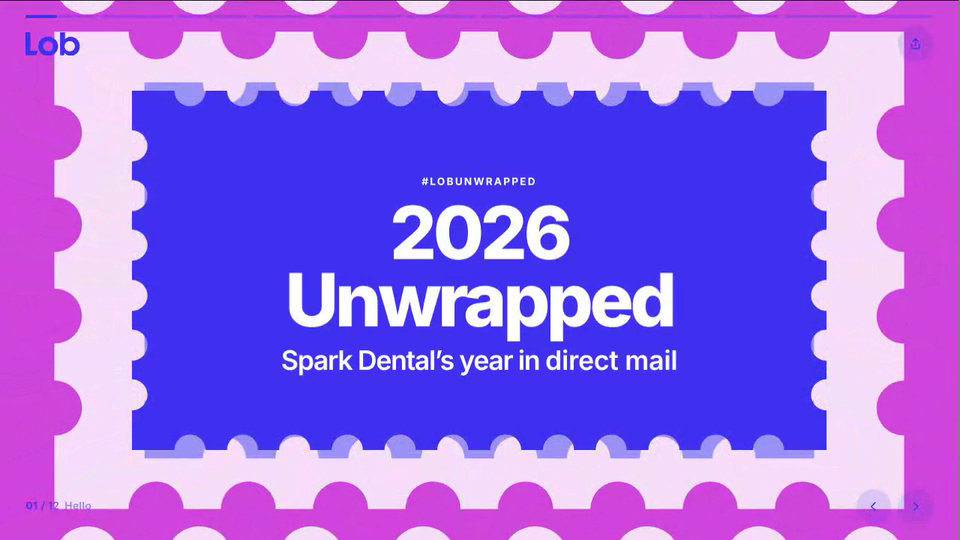
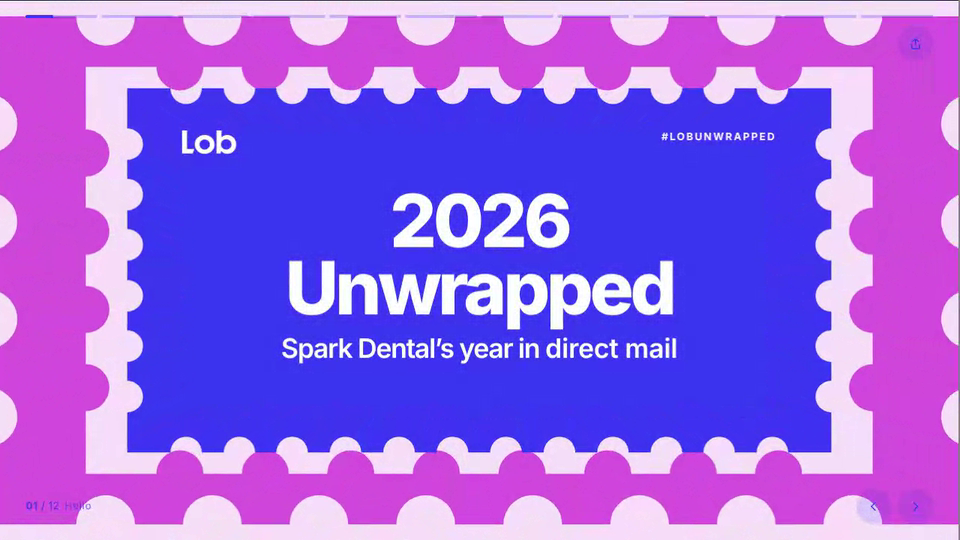
Lob Unwrapped: stamp press and wave, dot-stream map, big bottom-trail visuals, patterned QR rings, three formats, animated checkerboard, corner branding in the intro stamp
Claude-Session: https://claude.ai/code/session_01AHeBdx8DNoKfudp6tSCb8e

diff --git a/lob-unwrapped/index.html b/lob-unwrapped/index.html
@@ -105,6 +105,10 @@ nav.back span{color:#6e6e6e}nav.back b{font-weight:500;color:#fff;overflow:hidde
 .sub b{font-weight:700}
 .pill{display:inline-flex;align-self:flex-start;align-items:center;font:700 calc(var(--u)*3.4)/1 var(--sans);padding:calc(var(--u)*2.2) calc(var(--u)*4);border-radius:99px;background:var(--fg);color:var(--bg)}
 .ctr .pill{align-self:center}
+.stc{position:absolute;z-index:3;color:#fff;top:24%}
+.stc.l{left:19%;width:calc(var(--u)*17)}
+.stc.r{right:19%;opacity:1}
+.stage.intro .hd [data-logo]{visibility:hidden}
 .fine{font:400 calc(var(--u)*3)/1.4 var(--sans);opacity:.65;max-width:calc(var(--u)*90)}
 @container (max-aspect-ratio:1/1){
   .k{font-size:calc(var(--u)*3.8)}.h{font-size:calc(var(--u)*10.4)}.lead{font-size:calc(var(--u)*8.6)}
@@ -117,8 +121,10 @@ nav.back span{color:#6e6e6e}nav.back b{font-weight:500;color:#fff;overflow:hidde
 .spin{animation:spin 14s linear infinite;transform-box:view-box}
 @keyframes spin{to{transform:rotate(360deg)}}
 .drift{animation:drift 2.4s linear infinite}
+.cbf{fill:var(--ca);animation:cbf 4s steps(1,end) infinite}
+@keyframes cbf{0%{fill:var(--ca)}70%{fill:var(--cb)}}
 @keyframes drift{to{transform:translateX(-28px)}}
-@media(prefers-reduced-motion:reduce){.spin,.drift{animation:none}}
+@media(prefers-reduced-motion:reduce){.spin,.drift,.cbf{animation:none}.cbf.w{fill:var(--cb)}}
 .bgc{position:absolute;inset:0;z-index:0}
 .art .tun{aspect-ratio:1;height:auto;max-width:calc(var(--u)*112)}
 .tun.round{border-radius:50%}
@@ -131,13 +137,13 @@ nav.back span{color:#6e6e6e}nav.back b{font-weight:500;color:#fff;overflow:hidde
 .arts .pc{position:absolute;left:21%;top:50%;width:58%;transform:translateY(-50%)}
 .cas{}
 .art .cas{max-width:calc(var(--u)*118)}
-.mixrow{display:grid;grid-template-columns:repeat(4,minmax(0,1fr));gap:calc(var(--u)*5)}
+.mixrow{display:grid;grid-template-columns:repeat(3,minmax(0,1fr));gap:calc(var(--u)*6)}
 .mix{display:grid;gap:calc(var(--u)*1.6)}
 .mix .pc{margin-bottom:calc(var(--u)*1.4)}
 .mix b{font:800 calc(var(--u)*11)/1 var(--sans);letter-spacing:-.05em;color:var(--ac);font-variant-numeric:tabular-nums}
 .mix span{font:600 calc(var(--u)*4)/1.15 var(--sans);letter-spacing:-.02em}
 .mix small{font:400 calc(var(--u)*3.2)/1.2 var(--sans);opacity:.7}
-@container (max-aspect-ratio:1/1){.mixrow{grid-template-columns:1fr 1fr;gap:calc(var(--u)*5) calc(var(--u)*6)}.mix b{font-size:calc(var(--u)*10)}}
+@container (max-aspect-ratio:1/1){.mixrow{grid-template-columns:repeat(3,minmax(0,1fr));gap:calc(var(--u)*3)}.mix b{font-size:calc(var(--u)*10)}}
 .scene{width:100%;height:auto;max-height:100%;display:block;overflow:visible}
 .map{position:relative;width:100%;aspect-ratio:1.85;min-height:0}
 .map canvas{position:absolute;inset:0;width:100%;height:100%}
@@ -177,6 +183,7 @@ nav.back span{color:#6e6e6e}nav.back b{font-weight:500;color:#fff;overflow:hidde
 .browser .pg span{font:400 calc(var(--u)*4)/1.4 var(--sans);opacity:.7}
 .browser .cta{position:relative;justify-self:start;padding:calc(var(--u)*2.8) calc(var(--u)*5.4);border-radius:99px;background:var(--blue);color:#fff;font:700 calc(var(--u)*3.8)/1 var(--sans)}
 .browser .cta svg{position:absolute;right:-12%;bottom:-70%;width:calc(var(--u)*8)}
+.art .fun{padding-left:calc(var(--u)*7)}
 .fun{display:grid;gap:calc(var(--u)*5);width:100%}
 .fun .row{display:flex;align-items:center;gap:calc(var(--u)*4)}
 .fun .row>i{flex:none;font:800 calc(var(--u)*6)/1 var(--sans);font-style:normal;color:var(--bg);background:var(--ac);width:calc(var(--u)*16);height:calc(var(--u)*16);border-radius:50%;display:grid;place-items:center;letter-spacing:-.04em}
@@ -246,7 +253,7 @@ var D={brand:brand,pieces:Math.round(num('pieces',1284560)),pct:Math.min(100,num
   scans:Math.round(num('scans',41872)),clicks:Math.round(num('clicks',58214)),conv:Math.round(num('conv',9128)),rev:num('rev',3900000),days:num('days',3.6),ontime:num('ontime',97.4),bad:Math.round(num('bad',41206)),avgMi:1070};
 D.uniq=Math.round(D.clicks*.54);D.engaged=D.scans+D.uniq;D.qrRate=D.scans/D.pieces*100;D.perDay=Math.round(D.pieces/365);
 D.pieceMiles=D.pieces*D.avgMi;D.trips=D.pieceMiles/238855;D.hh=Math.max(1,Math.round(131e6/D.pieces));D.saved=D.bad*0.95;
-D.mix=[['Postcards',58,'stamp'],['Letters',22,'sqburst'],['Self-mailers',12,'checker'],['Snap packs &amp; checks',8,'squiggle']];
+D.mix=[['Postcards',62,'stamp'],['Letters',24,'sqburst'],['Self-mailers',14,'checker']];
 D.metroTop=[['Dallas–Fort Worth',.073],['Atlanta',.063],['Phoenix',.06],['Chicago',.055],['Denver',.049]].map(function(m){return[m[0],Math.round(D.pieces*m[1]*D.pct/64)]});
 var persona=D.pct>=60?['The Metro','Magnet','You went wide and stayed local: every mailbox felt like a one-to-one.',['Coast to coast','Always on time','Scan magnet']]:
   D.qrRate>=3?['The Scan','Whisperer','Fewer mailboxes, more taps. Your audience loves a QR code.',['Scan magnet','Tight targeting','Repeat responders']]:
@@ -271,17 +278,19 @@ function star(cx,cy,R,r,n,f,ky){var p=[],k=ky||1;for(var i=0;i<n*2;i++){var a=Ma
 function mand(cx,cy,R,n,a,b,c){var s=circ(cx,cy,R*.74,a),i,t;for(i=0;i<n;i++){t=Math.PI*2*i/n;s+=circ(cx+R*.72*Math.cos(t),cy+R*.72*Math.sin(t),R*.27,a)}
   s+=circ(cx,cy,R*.56,b);for(i=0;i<n/2;i++){t=Math.PI*4*i/n+Math.PI/n;s+=circ(cx+R*.46*Math.cos(t),cy+R*.46*Math.sin(t),R*.16,c)}return s+circ(cx,cy,R*.3,a)}
 function checker(x,y,w,h,s,a,b){var o=rect(x,y,w,h,a),i,j;for(i=0;i*s<w;i++)for(j=0;j*s<h;j++)if((i+j)%2)o+=rect(x+i*s,y+j*s,Math.min(s,w-i*s),Math.min(s,h-j*s),b);return o}
+/* checkerboard whose purple cells flip to white on their own clocks, so about 30% are white at any moment */
+function checkerAnim(x,y,w,h,s,a,b){var o=rect(x,y,w,h,a),i,j,k,d;for(i=0;i*s<w;i++)for(j=0;j*s<h;j++)if((i+j)%2){k=((i*37+j*91)%100)/100;d=(-k*4).toFixed(2);o+='<rect class="cbf'+(k<.3?' w':'')+'" x="'+(x+i*s)+'" y="'+(y+j*s)+'" width="'+Math.min(s,w-i*s)+'" height="'+Math.min(s,h-j*s)+'" style="--ca:'+b+';--cb:'+a+';animation-delay:'+d+'s"/>'}return o}
 function diag(x,y,w,h,st,a,b){var id='p'+(++UID);return '<defs><pattern id="'+id+'" patternUnits="userSpaceOnUse" width="'+st*2+'" height="'+st*2+'" patternTransform="rotate(45)"><rect width="'+st*2+'" height="'+st*2+'" fill="'+a+'"/><rect width="'+st+'" height="'+st*2+'" fill="'+b+'"/></pattern></defs><rect x="'+x+'" y="'+y+'" width="'+w+'" height="'+h+'" fill="url(#'+id+')"/>'}
 function stair(x,y,w,h,n,f,flip,up){var o='',i;for(i=0;i<n;i++){var ww=w*(n-i)/n;o+=rect(flip?x+w-ww:x,up?y+h-(i+1)*h/n:y+i*h/n,ww,h/n+.3,f)}return o}
 /* abstract mail piece, 300x192 (the ratio of the Figma pieces), no text. off=true pushes the motif off the visual centre */
 function spin(c,x,y,dur,rev){return '<g class="spin" style="transform-origin:'+x+'px '+y+'px;animation-duration:'+dur+'s'+(rev?';animation-direction:reverse':'')+'">'+c+'</g>'}
 function pieceInner(kind,p,off){var a=p[0],b=p[1],c=p[2],d=p[3],W=300,H=192,cx=off?226:150,g=rect(0,0,W,H,a);
   if(kind==='mandala'){g+=off?checker(0,0,92,H,23,a,b):'';g+=spin(mand(cx,96,off?92:90,12,b,c,d),cx,96,22)}
-  else if(kind==='checker'){g=checker(0,0,off?176:W,H,24,a,b)+circ(cx,96,54,d)+circ(cx,96,28,a)+circ(cx,96,11,c)}
+  else if(kind==='checker'){g=checkerAnim(0,0,off?176:W,H,24,a,b)+circ(cx,96,54,d)+spin(star(cx,96,44,24,10,b),cx,96,12,true)+circ(cx,96,10,c)}
   else if(kind==='diag'){g=diag(0,0,W,H,16,a,b)+circ(off?84:150,96,58,c)+circ(off?84:150,96,28,d)}
   else if(kind==='burst'){var bx=off?96:150;g+=(off?stair(214,0,86,H,6,b,true):'')+star(bx,96,104,76,14,c)+circ(bx,96,50,b)+circ(bx,96,21,d)}
   else if(kind==='sqburst'){var qx=off?210:150;g+=rect(qx-76,16,152,160,b)+rect(qx-58,34,116,124,a)+rect(qx-40,52,80,88,b)+spin(star(qx,96,34,16,8,c),qx,96,9)}
-  else if(kind==='checker'){g=checker(0,0,W,H,24,a,b)+circ(150,96,54,d)+spin(star(150,96,44,24,10,b),150,96,12,true)+circ(150,96,12,a)}
+  else if(kind==='checker'){g=checkerAnim(0,0,W,H,24,a,b)+circ(150,96,54,d)+spin(star(150,96,44,24,10,b),150,96,12,true)+circ(150,96,12,a)}
   else if(kind==='squiggle'){var qs='';for(var qi=0;qi<10;qi++)qs+='<path d="M-12 '+(6+qi*20.5)+squig(340,7)+'" fill="none" stroke="'+(qi%2?c:b)+'" stroke-width="6" stroke-linecap="round"/>';g+='<g class="drift">'+qs+'</g>'+circ(150,96,34,a)+spin(star(150,96,28,15,8,b),150,96,10)}
   else if(kind==='stamp'){var sx=off?168:100;g+='<path d="'+stampPath(sx,26,100,140,6,4,6,true)+'" fill="'+b+'"/>'+circ(sx+50,96,36,d)+spin(star(sx+50,96,30,16,8,a),sx+50,96,10)+circ(sx+50,96,6,c)+(off?stair(0,0,90,H,6,b,false,false):'')}
   else if(kind==='steps'){g+=stair(0,0,104,H,6,b,false,false)+stair(196,0,104,H,6,b,true,true)+circ(off?112:150,96,56,c)+star(off?112:150,96,34,24,10,d)}
@@ -309,8 +318,8 @@ function T(shape,cols,o,cls){o=o||{};return '<canvas class="tun'+(cls?' '+cls:''
 var SL=[];
 function R(i,html,tag,cls){return '<'+(tag||'div')+' class="rise'+(cls?' '+cls:'')+'" style="--i:'+i+'">'+html+'</'+(tag||'div')+'>'}
 /* 0 hello: concentric stamps grow out from a flat stamp */
-SL.push({t:'pink',n:'Hello',d:6500,bg:T('stamp',[MG,PK,PW,PK],{asp:1.78,n:8,per:1.6},'bgc'),pre:bigStamp(B,true),h:
-  '<div class="in ctr"><div class="tx" style="color:#fff">'+R(0,'#LobUnwrapped','div','k')+R(1,'2026<br>Unwrapped','h1','hero')+R(2,esc(D.brand)+'’s year in <i style="color:#fff">direct mail</i>','p','lead')+'</div></div>'});
+SL.push({t:'pink',n:'Hello',d:6500,bg:T('stamp',[MG,PK,PW,PK],{n:8,per:1.7,press:1},'bgc'),pre:bigStamp(B,true),h:
+  '<div class="in ctr"><div class="tx" style="color:#fff">'+R(0,'<span data-logo></span>','div','stc l')+R(0,'#LobUnwrapped','div','k stc r')+R(1,'2026<br>Unwrapped','h1','hero')+R(2,esc(D.brand)+'’s year in <i style="color:#fff">direct mail</i>','p','lead')+'</div></div>'});
 /* 1 pieces sent */
 SL.push({t:'pink',n:'Pieces sent',d:6500,h:
   '<div class="in wide"><div class="tx">'+R(0,'You sent','div','k')+R(1,C(D.pieces,'int'),'div','big')+R(2,'pieces of <i>mail</i>','div','lead')+
@@ -326,29 +335,27 @@ SL.push({t:'mag',n:'To the moon',d:7500,h:
   R(2,'That’s <b>'+C(D.trips,'int')+'</b> trips to the <i>moon</i>.','p','lead')+R(3,'Piece-miles = pieces × average delivery distance ('+int(D.avgMi)+' mi). Moon: 238,855 mi one way.','p','fine')+'</div>'+
   '<div class="art">'+R(2,T('circle',[MG,'diag:#4131f1:#f7dffa',B,'check:#f7dffa:#4131f1',PK],{n:9,per:2.4},'round'),'div','')+'</div></div>'});
 /* 4 coverage */
-SL.push({t:'blue',n:'% of the US',d:7000,map:1,bg:T('circle',[B,'rgba(247,223,250,.13)'],{n:11,per:3,at:'art'},'bgc'),h:
+SL.push({t:'blue',n:'% of the US',d:7000,map:1,bg:'<canvas class="tun bgc" id="cv"></canvas>',h:
   '<div class="in"><div class="tx">'+R(0,'You reached','div','k')+R(1,C(D.pct,'pct'),'div','big lg')+R(2,'of US <i>households</i>','div','lead')+R(3,'<span class="pill" style="background:var(--lime);color:var(--ink)">'+D.states+' states, one mailbox at a time</span>')+'</div>'+
-  '<div class="art">'+R(1,'<div class="map"><canvas id="cv"></canvas></div>','div','')+'</div></div>'});
+  '<div class="art">'+R(1,'<div class="map"></div>','div','')+'</div></div>'});
 /* 5 metros */
 SL.push({t:'lav',n:'Metros',d:6500,bg:T('square',[LAV,'rgba(208,69,220,.12)'],{n:10,per:3,at:'art'},'bgc'),h:
-  '<div class="in"><div class="tx">'+R(0,'Metros delivered to','div','k')+R(1,C(D.metros,'int')+' <small>of 387</small>','div','big lg')+R(2,'Your top five <i>metros</i>','div','lead')+'</div>'+
+  '<div class="in"><div class="tx">'+R(0,'Metros delivered to','div','k')+R(1,C(D.metros,'int')+'<small style="margin-left:-.45em">of 387</small>','div','big lg')+R(2,'Your top five <i>metros</i>','div','lead')+'</div>'+
   '<div class="art"><div class="rank">'+D.metroTop.map(function(m,i){return R(i+2,'<div class="n">'+(i+1)+'</div><div><div class="nm">'+m[0]+'<span>'+C(m[1],'int')+'</span></div><div class="t"><i style="--w:'+(100-i*13)+'%;--i:'+i+'"></i></div></div>','div','row')}).join('')+'</div></div></div>'});
 /* 6 QR: offset squares, repeating */
 SL.push({t:'pink',n:'QR scans',d:6500,h:
   '<div class="in"><div class="tx">'+R(0,'QR codes scanned','div','k')+R(1,C(D.scans,'int'),'div','big md')+R(2,'<i>scans</i>, one tap at a time','div','lead')+
   R(3,'<div class="facts"><div class="fact"><b>'+C(D.qrRate,'p1')+'</b><span>of your pieces got scanned</span></div><div class="fact"><b>Tue 7 PM</b><span>when your audience scans most</span></div></div>','div')+'</div>'+
-  '<div class="art">'+R(2,T('square',[PK,MG,B,LAV],{n:8,per:2.2,dx:.075,dy:.075}),'div','')+'</div></div>'});
+  '<div class="art">'+R(2,T('square',[PK,'diag:#4131f1:#f7dffa',MG,'check:#f7dffa:#4131f1',LAV],{n:8,per:2.2,dx:.075,dy:.075}),'div','')+'</div></div>'});
 /* 7 PURL: a fading trail of rectangles */
-SL.push({t:'white',n:'PURL clicks',d:7000,purl:1,bg:T('circle',[WH,'rgba(208,69,220,.09)'],{n:10,per:3,at:'art'},'bgc'),h:
-  '<div class="in"><div class="tx">'+R(0,'PURLs clicked','div','k')+R(1,C(D.clicks,'int'),'div','big md')+R(2,'<b>'+C(D.uniq,'int')+'</b> people landed on a page with <i>their own name</i> on it.','p','lead')+'</div>'+
-  '<div class="art">'+R(2,'<div class="trw"><canvas class="tun tr" data-trail="1"></canvas><span class="purl">'+esc(D.brand.toLowerCase().replace(/[^a-z0-9]+/g,'').slice(0,18)||'yourbrand')+'.com/<b id="pn">kristy</b></span></div>','div','')+'</div></div>'});
+SL.push({t:'white',n:'PURL clicks',d:7000,purl:1,bg:'<canvas class="tun bgc" data-trail="purl" data-x0=".54" data-w=".44"></canvas>',h:
+  '<div class="in"><div class="tx">'+R(0,'PURLs clicked','div','k')+R(1,C(D.clicks,'int'),'div','big md')+R(2,'<b>'+C(D.uniq,'int')+'</b> people landed on a page with <i>their own name</i> on it.','p','lead')+'</div></div>'});
 /* 8 results: concentric bursts around a flat stamp */
 SL.push({t:'blue',n:'Results',d:6500,bg:T('star',[PW,B,M3,B],{pts:12,n:9,per:2.6,rot:8},'bgc'),pre:bigStamp(MG,false),h:
-  '<div class="in ctr"><div class="tx" style="color:#fff;gap:calc(var(--u)*2.6)">'+R(0,'What it added up to','div','k')+R(1,C(D.rev,'usd'),'div','big lg')+R(2,'in revenue from <i style="color:#f7dffa">mail</i>','div','lead')+
-  R(3,'<div class="facts three"><div class="fact"><b>'+C(D.engaged,'compact')+'</b><span>people engaged</span></div><div class="fact"><b>'+C(D.conv,'int')+'</b><span>converted</span></div><div class="fact"><b>'+F.p1(D.conv/D.engaged*100)+'</b><span>of engaged converted</span></div></div>','div')+'</div></div>'});
+  '<div class="in ctr"><div class="tx" style="color:#fff;gap:calc(var(--u)*2.6)">'+R(0,'What it added up to','div','k')+R(1,C(D.rev,'usd'),'div','big lg')+R(2,'in revenue from <i style="color:#f7dffa">mail</i>','div','lead')+'</div></div>'});
 /* 9 delivery */
-SL.push({t:'lav',n:'Speed & quality',d:6500,bg:T('stamp',[LAV,'rgba(65,49,241,.1)'],{asp:1.78,n:9,per:3,at:'art'},'bgc'),h:
-  '<div class="in"><div class="tx">'+R(0,'Delivery','div','k')+R(1,C(D.days,'d1')+' <small>days</small>','div','big lg')+R(2,'average time to <i>mailbox</i>','div','lead')+'</div>'+
+SL.push({t:'lav',n:'Speed & quality',d:6500,bg:'<canvas class="tun bgc" data-trail="plain" data-x0=".53" data-w=".46"></canvas>',h:
+  '<div class="in"><div class="tx">'+R(0,'Delivery','div','k')+R(1,C(D.days,'d1')+'<small style="margin-left:.5em">days</small>','div','big lg')+R(2,'average time to <i>mailbox</i>','div','lead')+'</div>'+
   '<div class="art"><div class="fun">'+
   R(3,'<i>'+F.pct(D.ontime)+'</i><div>delivered on time<small>'+F.p1(D.ontime)+' of pieces hit their window</small></div>','div','row')+
   R(4,'<i><svg class="chk" viewBox="0 0 24 24" aria-hidden="true"><path d="M4.5 12.8 9.6 18 19.5 7"/></svg></i><div>'+C(D.bad,'int')+' bad addresses caught<small>fixed or stopped before print</small></div>','div','row')+
@@ -358,7 +365,7 @@ SL.push({t:'mag',n:'Your persona',d:6500,bg:T('scallop',[B,MG,B,M3],{pts:16,n:8,
   '<div class="in ctr"><div class="pcirc">'+R(0,'Your mail personality','div','k')+R(1,persona[0]+'<br><i>'+persona[1]+'</i>','div','persona')+R(2,persona[2],'p','lead')+'</div></div>'+
   '<div class="ptw" style="position:absolute;z-index:3;left:0;right:0;bottom:calc(var(--u)*15)">'+R(3,persona[3].map(function(t){return '<span>'+t+'</span>'}).join(''),'div','tags')+'</div>'});
 /* 11 share */
-SL.push({t:'pink',n:'Share it',d:8000,end:1,bg:T('square',[PK,'rgba(208,69,220,.15)'],{n:10,per:3.2,at:'art'},'bgc'),h:
+SL.push({t:'pink',n:'Share it',d:8000,end:1,bg:T('rect',[PK,'#efc3f5'],{n:9,per:3.2,from:'.card'},'bgc'),h:
   '<div class="in"><div class="art">'+R(0,'<div class="cswrap"><div class="card"><div class="top"><span data-logo></span><span>Unwrapped 2026</span></div><div class="nm">'+esc(D.brand)+',<br><i>in direct mail</i></div><div class="g">'+
     [[compact(D.pieces),'pieces sent'],[F.pct(D.pct),'of US households'],[int(D.metros),'metros delivered to'],[compact(D.scans),'QR codes scanned'],[compact(D.clicks),'PURLs clicked'],[int(D.trips),'trips to the moon']].map(function(s){return '<div><b>'+s[0]+'</b><span>'+s[1]+'</span></div>'}).join('')+'</div></div></div>','div','')+'</div>'+
   '<div class="tx">'+R(1,'Your next chapter starts <i>here.</i>','h2','h')+
@@ -378,7 +385,7 @@ logoInto(document);
 var cur=-1,el0=0,paused=false,holding=false,token=0,last=0;
 function go(n){
   n=Math.max(0,Math.min(SL.length-1,n));if(n===cur)return;
-  token++;cur=n;el0=0;
+  token++;cur=n;el0=0;stage.classList.toggle('intro',n===0);
   els.forEach(function(e,i){e.classList.toggle('on',i===n)});
   barEls.forEach(function(b,i){b.classList.toggle('done',i<n);b.firstChild.firstChild.style.transform=i<n?'':'scaleX(0)';if(i===n)b.setAttribute('aria-current','true');else b.removeAttribute('aria-current')});
   var cs=getComputedStyle(els[n]);
@@ -427,28 +434,39 @@ function ringPath(c,shape,x,y,r,asp,pts,ang){c.beginPath();var i,a,rr,w=r*asp,h=
   else if(shape==='star'){for(i=0;i<pts*2;i++){a=Math.PI*i/pts+ang;rr=i%2?r*.76:r;c[i?'lineTo':'moveTo'](x+rr*Math.cos(a),y+rr*Math.sin(a))}c.closePath()}
   else if(shape==='scallop'){for(i=0;i<=180;i++){a=i/180*6.2832;rr=r*(.92+.08*Math.cos(pts*a+ang));c[i?'lineTo':'moveTo'](x+rr*Math.cos(a),y+rr*Math.sin(a))}c.closePath()}}
 function fit(cv){var rc=cv.getBoundingClientRect(),dpr=Math.min(1.5,window.devicePixelRatio||1),W=Math.max(2,Math.round(rc.width*dpr)),Hh=Math.max(2,Math.round(rc.height*dpr));if(cv.width!==W||cv.height!==Hh){cv.width=W;cv.height=Hh}return[W,Hh]}
-function rings(ctx,shape,cols,W,Hh,cx,cy,n,t,asp,dx,dy,rot,pts){var L=cols.length,cyc=Math.floor(t),ph=t-cyc,Rc=Math.max(W/(2*asp),Hh/2)*(shape==='star'||shape==='scallop'?1.9:1.5),step=Rc/n,k,r,id,ang;ctx.fillStyle=cols[(((cyc-n-1)%L)+L)%L];ctx.fillRect(0,0,W,Hh);
-  for(k=n;k>=0;k--){r=(k+ph)*step;id=cyc-k;ang=((id%2+2)%2?1:-1)*rot*(r/step)*Math.PI/180/ (n/2);
+function rings(ctx,shape,cols,W,Hh,cx,cy,n,t,asp,dx,dy,rot,pts,base){base=base||0;var L=cols.length,cyc=Math.floor(t),ph=t-cyc,Rc=Math.max(W/(2*asp),Hh/2)*(shape==='star'||shape==='scallop'?1.9:1.5),step=Rc/n,k,r,id,ang;ctx.fillStyle=cols[(((cyc-n-1)%L)+L)%L];ctx.fillRect(0,0,W,Hh);
+  for(k=n;k>=(base?-3:0);k--){r=base+(k+ph)*step;if(r<=0)continue;id=cyc-k;ang=((id%2+2)%2?1:-1)*rot*(r/step)*Math.PI/180/ (n/2);
     ringPath(ctx,shape,cx+dx*r,cy+dy*r,r,asp,pts,ang);ctx.fillStyle=cols[((id%L)+L)%L];ctx.fill()}}
 function mkPat(ctx,spec,dpr){var q=spec.split(':'),sz=Math.round(14*dpr),c=document.createElement('canvas'),g;c.width=c.height=sz*2;g=c.getContext('2d');g.fillStyle=q[1];g.fillRect(0,0,sz*2,sz*2);g.fillStyle=q[2];
   if(q[0]==='check'){g.fillRect(0,0,sz,sz);g.fillRect(sz,sz,sz,sz)}
   else{g.beginPath();g.moveTo(sz,0);g.lineTo(sz*2,0);g.lineTo(0,sz*2);g.lineTo(0,sz);g.closePath();g.fill();g.beginPath();g.moveTo(sz*2,sz);g.lineTo(sz*2,sz*2);g.lineTo(sz,sz*2);g.closePath();g.fill()}
   return ctx.createPattern(c,'repeat')}
-function tunnel(cv,tk){var d=cv.dataset,ctx=cv.getContext('2d'),dpr=Math.min(1.5,window.devicePixelRatio||1),pats=[],cols=d.cols.split('|').map(function(c){if(/^(diag|check):/.test(c)){var pt=mkPat(ctx,c,dpr);pats.push(pt);return pt}return c}),per=+d.per||2.4,t0=performance.now(),art=d.at?cv.closest('.slide').querySelector('.art'):null;
-  (function f(now){if(tk!==token)return;var s=fit(cv),t=RM?.35:(now-t0)/1000/per,cx=s[0]/2,cy=s[1]/2,o=(now/22)%(28*dpr);pats.forEach(function(pt){pt.setTransform(new DOMMatrix([1,0,0,1,o,o]))});
-    if(art){var cr=cv.getBoundingClientRect(),ar=art.getBoundingClientRect();if(cr.width){cx=(ar.left+ar.width/2-cr.left)/cr.width*s[0];cy=(ar.top+ar.height/2-cr.top)/cr.height*s[1]}}
-    rings(ctx,d.shape,cols,s[0],s[1],cx,cy,+d.n||9,t,+d.asp||1,+d.dx||0,+d.dy||0,+d.rot||0,+d.pts||10);
+function tunnel(cv,tk){var d=cv.dataset,ctx=cv.getContext('2d'),dpr=Math.min(1.5,window.devicePixelRatio||1),pats=[],cols=d.cols.split('|').map(function(c){if(/^(diag|check):/.test(c)){var pt=mkPat(ctx,c,dpr);pats.push(pt);return pt}return c}),per=+d.per||2.4,t0=performance.now(),slide=cv.closest('.slide'),art=d.at?slide.querySelector('.art'):null,stamps=d.press?slide.querySelectorAll('.burstsvg'):null,from=d.from?slide.querySelector(d.from):null;
+  (function f(now){if(tk!==token)return;var s=fit(cv),t=RM?.35:(now-t0)/1000/per,cx=s[0]/2,cy=s[1]/2,o=(now/22)%(28*dpr),asp=+d.asp||1,base=0,cr=cv.getBoundingClientRect(),k=cr.width?s[0]/cr.width:1,ph=t-Math.floor(t);
+    pats.forEach(function(pt){pt.setTransform(new DOMMatrix([1,0,0,1,o,o]))});
+    if(art&&cr.width){var ar=art.getBoundingClientRect();cx=(ar.left+ar.width/2-cr.left)*k;cy=(ar.top+ar.height/2-cr.top)*k}
+    if(stamps){var st=stamps[0],lan=getComputedStyle(st).display!=='none';if(!lan)st=stamps[1];var sr=st.getBoundingClientRect(),fw=lan?116/160:48/60,fh=lan?60/90:82/100,hw=sr.width*fw/2*k,hh=sr.height*fh/2*k,sc=RM?1:.95-.07*Math.cos(6.2832*ph);
+      cx=(sr.left+sr.width/2-cr.left)*k;cy=(sr.top+sr.height/2-cr.top)*k;asp=hw/hh;base=hh;stamps.forEach(function(e){e.style.transform='translate(-50%,-50%) scale('+sc+')'})}
+    else if(from){var fr=from.getBoundingClientRect();cx=(fr.left+fr.width/2-cr.left)*k;cy=(fr.top+fr.height/2-cr.top)*k;asp=fr.width/fr.height;base=fr.height/2*k}
+    rings(ctx,d.shape,cols,s[0],s[1],cx,cy,+d.n||9,t,asp,+d.dx||0,+d.dy||0,+d.rot||0,+d.pts||10,base);
     if(!RM)requestAnimationFrame(f)})(t0)}
-/* the fade trail: a lead rectangle and five magenta cards behind it at 100/60/38/19/8% */
-function trail(cv,tk){var ctx=cv.getContext('2d'),t0=performance.now(),op=[1,.6,.38,.19,.08];
-  (function f(now){if(tk!==token)return;var s=fit(cv),W=s[0],Hh=s[1],t=RM?.5:(now-t0)/1000,w=W*.54,h=w/1.56,x0=W*.42,y0=Hh/2-h/2,g=W*.07*(.75+.25*Math.sin(t*1.6)),i;
-    ctx.clearRect(0,0,W,Hh);
-    for(i=5;i>=1;i--){ctx.beginPath();rrect(ctx,x0-i*g,y0,w,h,h*.05);ctx.fillStyle='rgba(208,69,220,'+op[i-1]+')';ctx.fill()}
-    ctx.save();ctx.beginPath();rrect(ctx,x0,y0,w,h,h*.05);ctx.fillStyle='#4131f1';ctx.fill();ctx.clip();
-    rings(ctx,'rect',['#4131f1','#d045dc','#f7dffa','#f5f5fe'],W,Hh,x0+w/2,y0+h/2,7,t/2.2,1.56,0,0,0,0);ringPath(ctx,'star',x0+w/2,y0+h/2-h*.12,h*.24,1,10,t*.9);ctx.fillStyle='#f5f5fe';ctx.fill();ctx.restore();
+/* the fade trail: a big lead rectangle and five magenta cards behind it at 100/60/38/19/8%, breathing */
+var PN='kristy',DOM=(D.brand.toLowerCase().replace(/[^a-z0-9]+/g,'').slice(0,18)||'yourbrand');
+function trail(cv,tk){var d=cv.dataset,ctx=cv.getContext('2d'),t0=performance.now(),op=[1,.6,.38,.19,.08],fx0=+d.x0||.54,fw=+d.w||.44;
+  (function f(now){if(tk!==token)return;var s=fit(cv),W=s[0],Hh=s[1],t=RM?.5:(now-t0)/1000,port=Hh>W,w,h,x0,y0,g,i,cx,cy,breathe=.85+.15*Math.sin(t*1.6);
+    if(port){w=W*.74;x0=(W-w)/2;h=w/1.56;g=h*.085*breathe;y0=Hh*.7-h/2}else{w=W*fw;x0=W*fx0;h=w/1.56;g=h*.075*breathe;y0=(Hh-h)/2}
+    cx=x0+w/2;cy=y0+h/2;ctx.clearRect(0,0,W,Hh);
+    for(i=5;i>=1;i--){ctx.beginPath();rrect(ctx,x0,y0+i*g,w,h,h*.04);ctx.fillStyle='rgba(208,69,220,'+(op[i-1]*(RM?1:.8+.2*Math.sin(t*2.2-i*.8)))+')';ctx.fill()}
+    ctx.save();ctx.beginPath();rrect(ctx,x0,y0,w,h,h*.04);ctx.clip();
+    rings(ctx,'rect',d.trail==='purl'?['#4131f1','#d045dc','#f7dffa','#f5f5fe']:['#ffffff','#f5f5fe'],w,h,cx,cy,6,t/2.4,1.56,0,0,0,0);
+    if(d.trail==='purl'){ctx.beginPath();ctx.arc(cx,cy-h*.14,h*.25,0,6.2832);ctx.fillStyle='#4131f1';ctx.fill();ringPath(ctx,'star',cx,cy-h*.14,h*.21,1,10,t*.9);ctx.fillStyle='#f5f5fe';ctx.fill();ctx.beginPath();ctx.arc(cx,cy-h*.14,h*.05,0,6.2832);ctx.fillStyle='#d045dc';ctx.fill()}
+    ctx.restore();
+    if(d.trail==='purl'){var fs=h*.085,pad=h*.06,a=DOM+'.com/',wa,wb,pw,ph,px,py;ctx.font='600 '+fs+'px Inter,sans-serif';wa=ctx.measureText(a).width;ctx.font='800 '+fs+'px Inter,sans-serif';wb=ctx.measureText(PN).width;
+      pw=wa+wb+pad*2;ph=fs*2.1;px=cx-pw/2;py=cy+h*.2;ctx.beginPath();rrect(ctx,px,py,pw,ph,ph/2);ctx.fillStyle='#f5f5fe';ctx.fill();
+      ctx.fillStyle='#4131f1';ctx.textBaseline='middle';ctx.font='600 '+fs+'px Inter,sans-serif';ctx.fillText(a,px+pad,py+ph/2+fs*.04);ctx.font='800 '+fs+'px Inter,sans-serif';ctx.fillText(PN,px+pad+wa,py+ph/2+fs*.04)}
     if(!RM)requestAnimationFrame(f)})(t0)}
-function purl(root,tk){var names=['kristy','jordan','marcus','elena','sam'],a=root.querySelector('#pn'),i=0;
-  (function cycle(){if(tk!==token)return;var w=names[i++%names.length],k=0;(function type(){if(tk!==token)return;a.textContent=w.slice(0,k);if(k++<w.length)setTimeout(type,70);else if(!RM)setTimeout(cycle,1100)})()})()}
+function purl(root,tk){var names=['kristy','jordan','marcus','elena','sam'],i=0;
+  (function cycle(){if(tk!==token)return;var w=names[i++%names.length],k=0;(function type(){if(tk!==token)return;PN=w.slice(0,Math.max(1,k));if(k++<w.length)setTimeout(type,70);else if(!RM)setTimeout(cycle,1100)})()})()}
 
 var US=[[-124.7,48.4],[-123.1,48.4],[-122.8,49],[-95.2,49],[-95.2,49.4],[-94.6,48.7],[-93,48.6],[-91.4,48.1],[-89.6,48],[-90.4,46.6],[-87.5,46.5],[-84.9,46.8],[-84.5,46.5],[-83.5,46],[-82.4,43],[-83.1,42.2],[-82.7,41.7],[-79,42.8],[-79,43.3],[-76.5,43.6],[-75,44.9],[-71.5,45],[-70.8,45.4],[-70,46.7],[-69.2,47.4],[-68.3,47.3],[-67.8,47],[-67.8,45.7],[-67,44.9],[-68.8,44.3],[-70.2,43.6],[-70.7,42.9],[-70.8,42.3],[-70,41.8],[-70,41.6],[-71.4,41.4],[-73.7,40.9],[-74,40.5],[-74,39.8],[-74.9,38.9],[-75.5,38.4],[-75.9,37.1],[-76,36.9],[-75.5,35.3],[-76.5,34.7],[-77.9,33.9],[-79,33.3],[-80.9,32],[-81.4,30.7],[-81.2,29.5],[-80.5,28.2],[-80,26.8],[-80.2,25.5],[-81.1,25.1],[-81.8,26.1],[-82.7,27.7],[-82.8,29],[-83.7,29.9],[-85,29.7],[-86.5,30.4],[-88,30.3],[-89.4,30.2],[-89.4,29],[-90.2,29.1],[-91.5,29.5],[-93.8,29.7],[-94.8,29.3],[-96.5,28.3],[-97.4,27.3],[-97.2,25.9],[-99.1,26.4],[-99.5,27.5],[-100.7,29.1],[-101.4,29.8],[-102.4,29.8],[-103.1,29],[-104.5,29.6],[-104.9,30.6],[-106.5,31.8],[-108.2,31.8],[-108.2,31.3],[-111.1,31.3],[-114.8,32.5],[-117.1,32.5],[-117.3,33.1],[-118.4,33.7],[-119.5,34.4],[-120.6,34.6],[-121.9,36.6],[-122.5,37.8],[-123.8,39.4],[-124.4,40.4],[-124.1,41.9],[-124.5,42.8],[-124.1,44],[-123.9,46.2],[-124.1,47],[-124.7,48.4]];
 var MET=[[40.7,-74],[34.05,-118.2],[41.9,-87.6],[32.8,-96.8],[29.8,-95.4],[38.9,-77],[25.8,-80.2],[33.7,-84.4],[42.4,-71],[33.4,-112],[37.8,-122.4],[47.6,-122.3],[42.3,-83],[45,-93.3],[39.7,-105],[38.6,-90.2],[28,-82.5],[35.2,-80.8],[45.5,-122.7],[36.2,-115.1],[39.1,-94.6],[36.2,-86.8],[40.8,-111.9],[30,-90],[35.1,-106.6],[40.4,-80],[41.5,-81.7],[28.5,-81.4],[29.4,-98.5],[40,-75.2],[39.8,-86.2],[40,-83],[38.6,-121.5],[41.3,-96],[35.5,-97.5],[35.1,-90],[43.6,-116.2],[35.8,-78.6],[32.7,-117.2],[30.3,-97.7],[39.1,-84.5]];
@@ -458,16 +476,19 @@ function dots(){if(DOTS)return DOTS;DOTS=[];var st=.42;
   for(var la=49.6;la>24.4;la-=st)for(var lo=-125;lo<-66.5;lo+=st/K*1){if(!inside(lo,la))continue;var d=1e9;MET.forEach(function(m){var dx=(lo-m[1])*K,dy=la-m[0];d=Math.min(d,Math.sqrt(dx*dx+dy*dy))});
     var h=Math.abs(Math.sin(lo*12.9898+la*78.233)*43758.5453)%1;DOTS.push({x:(lo+125)*K,y:49.6-la,s:d+h*2.6})}
   DOTS.sort(function(a,b){return a.s-b.s});DOTS.forEach(function(d,i){d.r=i/DOTS.length});return DOTS}
-function drawMap(cv,tk){var ds=dots(),ctx=cv.getContext('2d'),t0=performance.now()+400;
-  function size(){var r=cv.getBoundingClientRect(),dpr=Math.min(2,window.devicePixelRatio||1);cv.width=Math.max(2,r.width*dpr);cv.height=Math.max(2,r.height*dpr);return[cv.width,cv.height]}
-  var W=0,Hh=0;
-  (function s(now){if(tk!==token)return;var sz=size();W=sz[0];Hh=sz[1];var mw=59.5*K,mh=25.4,sc=Math.min(W/mw,Hh/mh)*.98,ox=(W-mw*sc)/2,oy=(Hh-mh*sc)/2,p=RM?1:ease(Math.max(0,Math.min(1,(now-t0)/1900))),lit=D.pct/100*p,r=sc*.19;
-    ctx.clearRect(0,0,W,Hh);
-    for(var i=0;i<ds.length;i++){var d=ds[i],on=d.r<lit;ctx.fillStyle=on?'#f7dffa':'rgba(255,255,255,.2)';ctx.beginPath();ctx.arc(ox+d.x*sc,oy+d.y*sc,on?r*1.08:r*.85,0,6.2832);ctx.fill()}
-    var ph=(now/1300)%1;ctx.lineWidth=Math.max(1,sc*.05);
-    MET.slice(0,14).forEach(function(m,i){if(p<.5)return;var x=ox+(m[1]+125)*K*sc,y=oy+(49.6-m[0])*sc,q=(ph+i*.13)%1;ctx.strokeStyle='rgba(247,223,250,'+(.8*(1-q))+')';ctx.beginPath();ctx.arc(x,y,r*(1.5+q*5),0,6.2832);ctx.stroke()});
-    if(!RM||p<1)requestAnimationFrame(s)})(performance.now())}
-
+function drawMap(cv,tk){var ds=dots(),ctx=cv.getContext('2d'),t0=performance.now()+250,ph=cv.closest('.slide').querySelector('.map');
+  (function f(now){if(tk!==token)return;var sz=fit(cv),W=sz[0],Hh=sz[1],cr=cv.getBoundingClientRect(),pr=ph.getBoundingClientRect(),k=W/cr.width,
+    mx=(pr.left-cr.left)*k,my=(pr.top-cr.top)*k,mw=pr.width*k,mh=pr.height*k,MW=59.5*K,MH=25.4,sc=Math.min(mw/MW,mh/MH)*.98,ox=mx+(mw-MW*sc)/2,oy=my+(mh-MH*sc)/2,r=sc*.19,
+    T=RM?9:(now-t0)/1000,far=Math.hypot(W,Hh)*.75,i,d,h,h2,p,fx,fy,a,sx,sy,x,y,pb,lit,q;
+    ctx.clearRect(0,0,W,Hh);ctx.lineCap='round';
+    for(i=0;i<ds.length;i++){d=ds[i];h=((i*2654435761)>>>0)%1000/1000;h2=((i*40503+7)>>>0)%1000/1000;
+      p=Math.max(0,Math.min(1,(T-(.1+h*1.5))/(.9+h2*.5)));if(p<=0)continue;p=ease(p);
+      fx=ox+d.x*sc;fy=oy+d.y*sc;a=((h*13.7)%1)*6.2832;sx=fx+Math.cos(a)*far;sy=fy+Math.sin(a)*far;x=sx+(fx-sx)*p;y=sy+(fy-sy)*p;lit=d.r<D.pct/100;
+      if(p<1){pb=Math.max(0,p-.2);ctx.strokeStyle=lit?'rgba(247,223,250,.55)':'rgba(255,255,255,.3)';ctx.lineWidth=r*1.5;ctx.beginPath();ctx.moveTo(sx+(fx-sx)*pb,sy+(fy-sy)*pb);ctx.lineTo(x,y);ctx.stroke()}
+      ctx.fillStyle=lit?'#f7dffa':'rgba(255,255,255,.22)';ctx.beginPath();ctx.arc(x,y,lit?r*1.08:r*.85,0,6.2832);ctx.fill()}
+    if(T>2.4){var ph2=(now/1300)%1;ctx.lineWidth=Math.max(1,sc*.05);
+      MET.slice(0,14).forEach(function(m,i){var x=ox+(m[1]+125)*K*sc,y=oy+(49.6-m[0])*sc,q=(ph2+i*.13)%1;ctx.strokeStyle='rgba(247,223,250,'+(.8*(1-q))+')';ctx.beginPath();ctx.arc(x,y,r*(1.5+q*5),0,6.2832);ctx.stroke()})}
+    if(!RM)requestAnimationFrame(f)})(performance.now())}
 
 /* ---------- sharing ---------- */
 var tt=document.getElementById('toast');

diff --git a/tools/record-clips.js b/tools/record-clips.js
@@ -25,14 +25,14 @@ const domClick = (p, sel) => p.evaluate((s) => document.querySelector(s).click()
 /* vp: viewport, crop: [x, y, w, h] in css px (16:9, becomes 960x540), run: timeline of actions (ms after the page is ready).
    Apps that move on their own just wait; the others are driven the way a visitor would use them. */
 const APPS = {
-  // Lob Unwrapped, a full-screen 16:9 reel of concentric flat geometry: concentric stamps around the intro stamp, then rectangle rings, circle rings, offset squares, star rings and the scalloped mandala
+  // Lob Unwrapped, a full-screen 16:9 reel of concentric flat geometry: the intro stamp presses in and sends waves out, then dots stream in to build the US map, the trail of fading rectangles, the offset squares and the mandala persona
   'lob-unwrapped': { vp: [1280, 769], crop: [0, 49, 1280, 720], hash: '#clip', ready: 1200, q: 62, run: async (p) => {
     const t0 = Date.now(), g = (n) => p.evaluate((i) => window.__lu.go(i), n);
-    await at(t0, 1700, () => g(1));
-    await at(t0, 2600, () => g(3));
-    await at(t0, 3500, () => g(6));
-    await at(t0, 4400, () => g(8));
-    await at(t0, 5300, () => g(10));
+    await at(t0, 1700, () => g(2));
+    await at(t0, 2600, () => g(4));
+    await at(t0, 3900, () => g(7));
+    await at(t0, 4800, () => g(6));
+    await at(t0, 5500, () => g(10));
     await sleep(1000);
   } },
   // the skills library: both skill tiles with their thumbnails animating on their own, then the cursor sweeps over each tile
